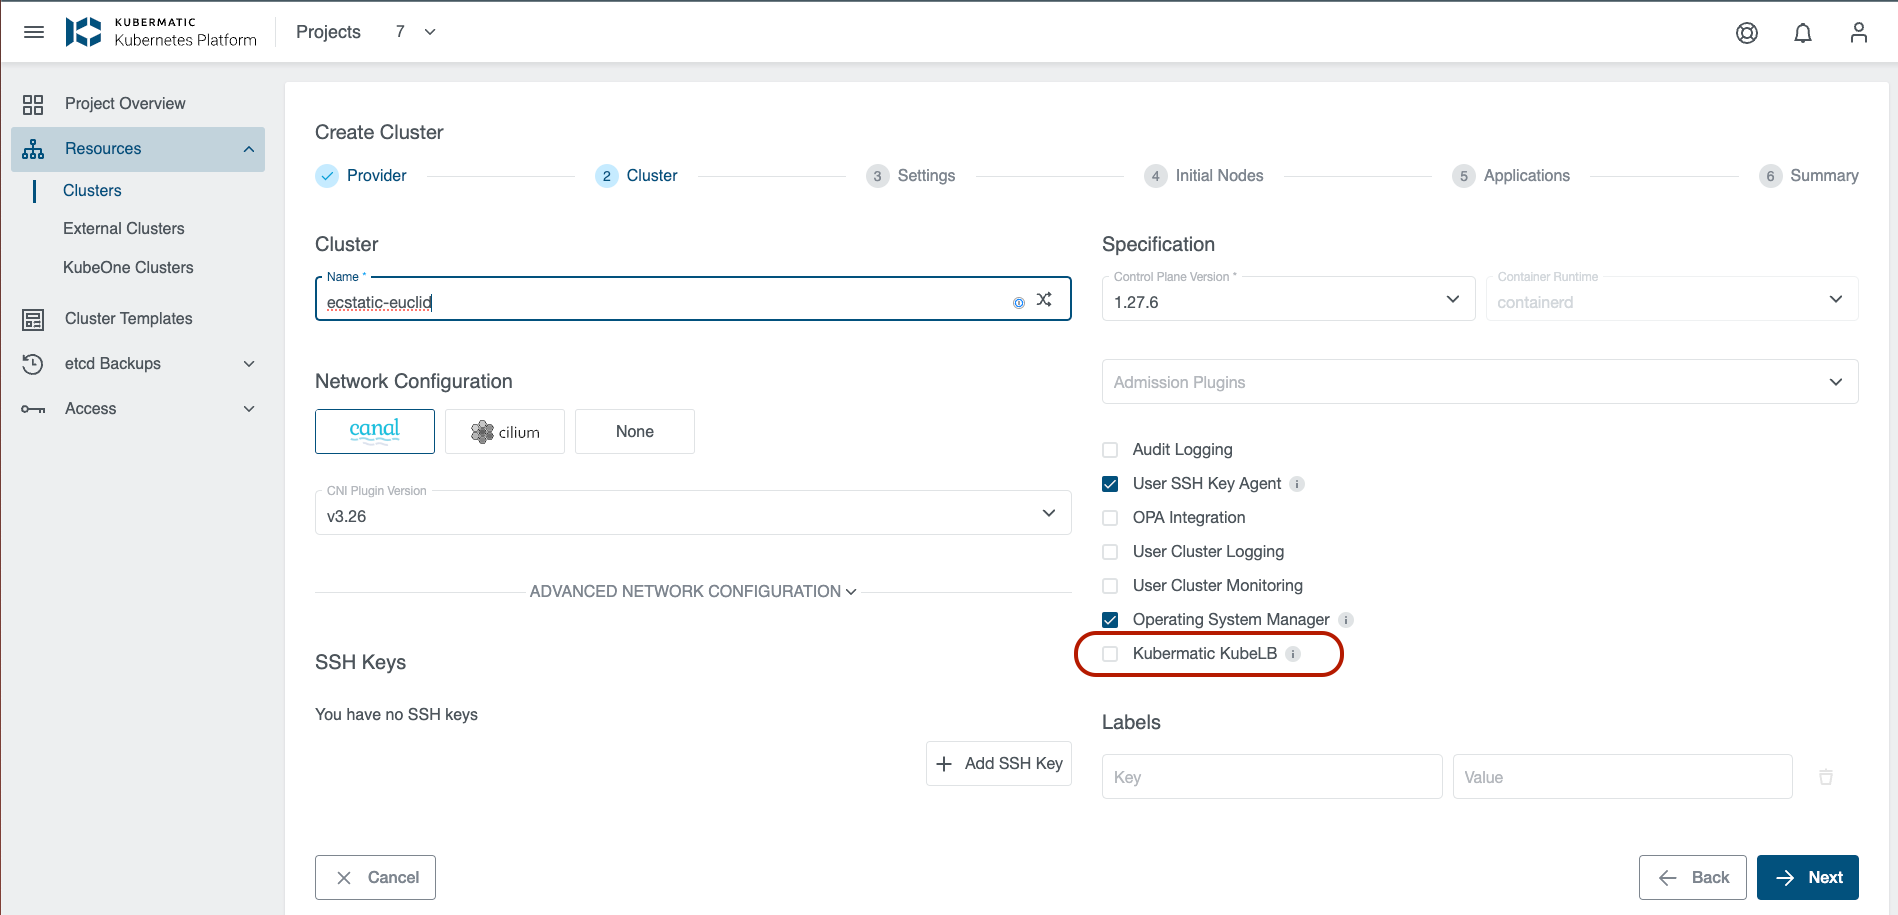
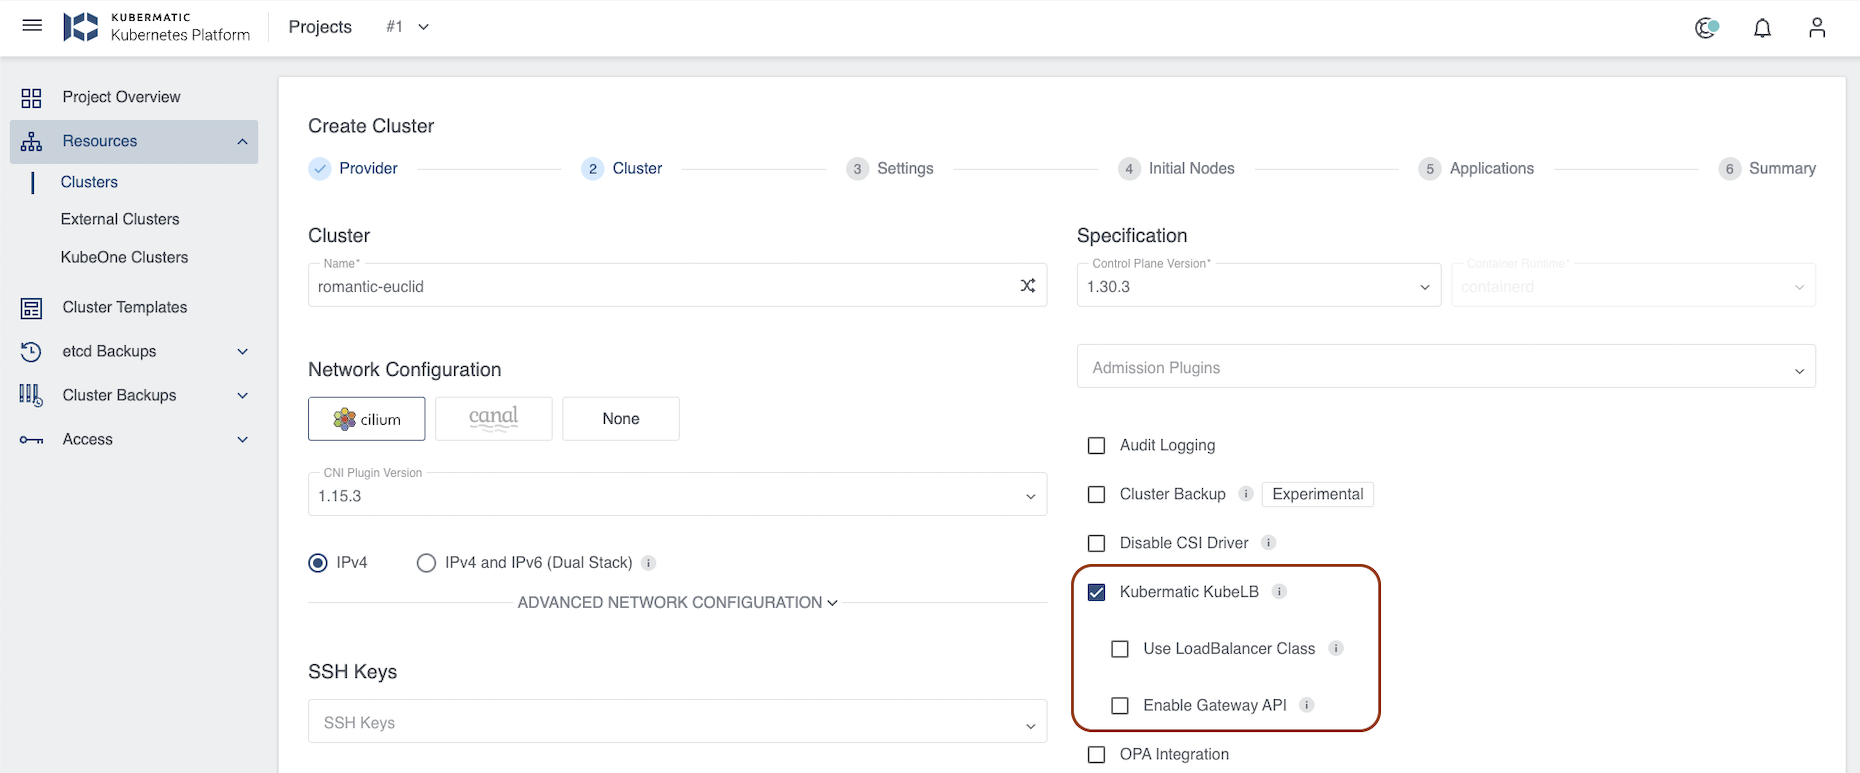
Update KubeLB tutorial in KKP

diff --git a/content/kubermatic/main/tutorials-howtos/kubelb/_index.en.md b/content/kubermatic/main/tutorials-howtos/kubelb/_index.en.md
@@ -51,6 +51,16 @@ spec:
           # Kubeconfig is reference to the Kubeconfig for the kubeLB management cluster. Kubeconfig specified at the datacenter level will have precedence over the
           # kubeconfig specified at the seed level.
           kubeconfig: nil
+          # UseLoadBalancerClass is used to configure the use of load balancer class `kubelb` for kubeLB. If false, kubeLB will manage all load balancers in the
+          # user cluster irrespective of the load balancer class.
+          UseLoadBalancerClass: false
+          # EnableGatewayAPI is used to configure the use of gateway API for kubeLB.
+          EnableGatewayAPI: false
+          # EnableSecretSynchronizer is used to configure the use of secret synchronizer for kubeLB.
+          EnableSecretSynchronizer: false
+          # DisableIngressClass is used to disable the ingress class `kubelb` filter for kubeLB.
+          DisableIngressClass: false
+
 ```
 
 * Enable KubeLB for the user cluster:
